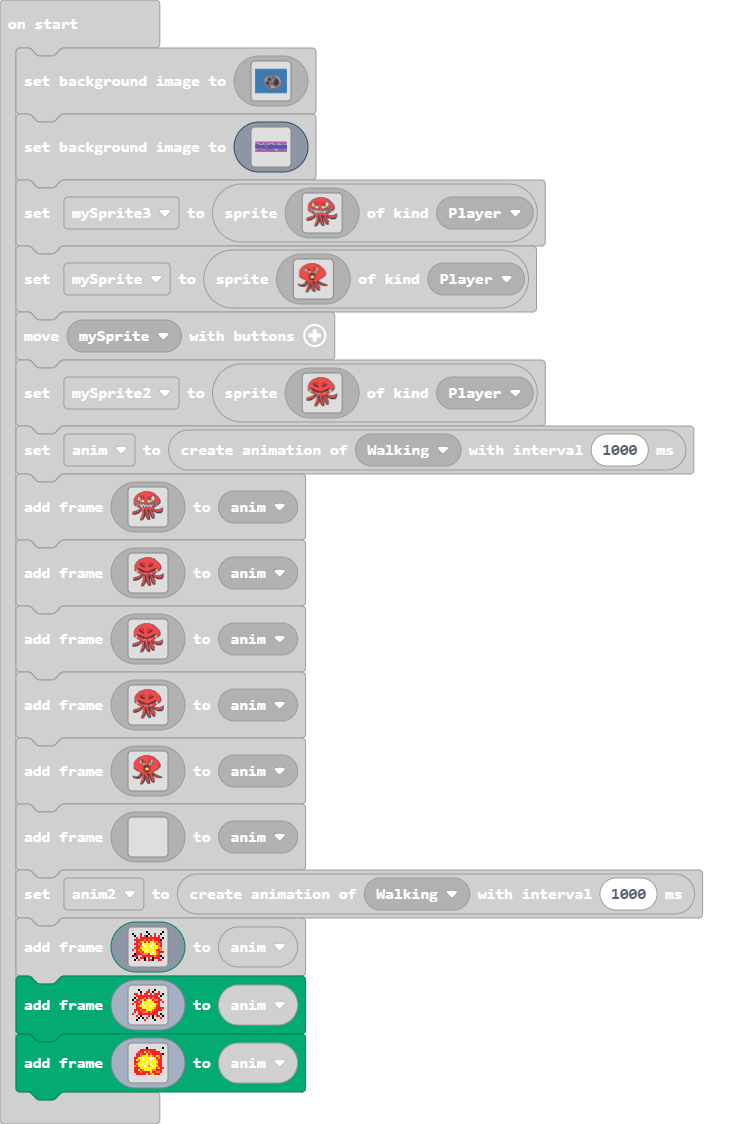
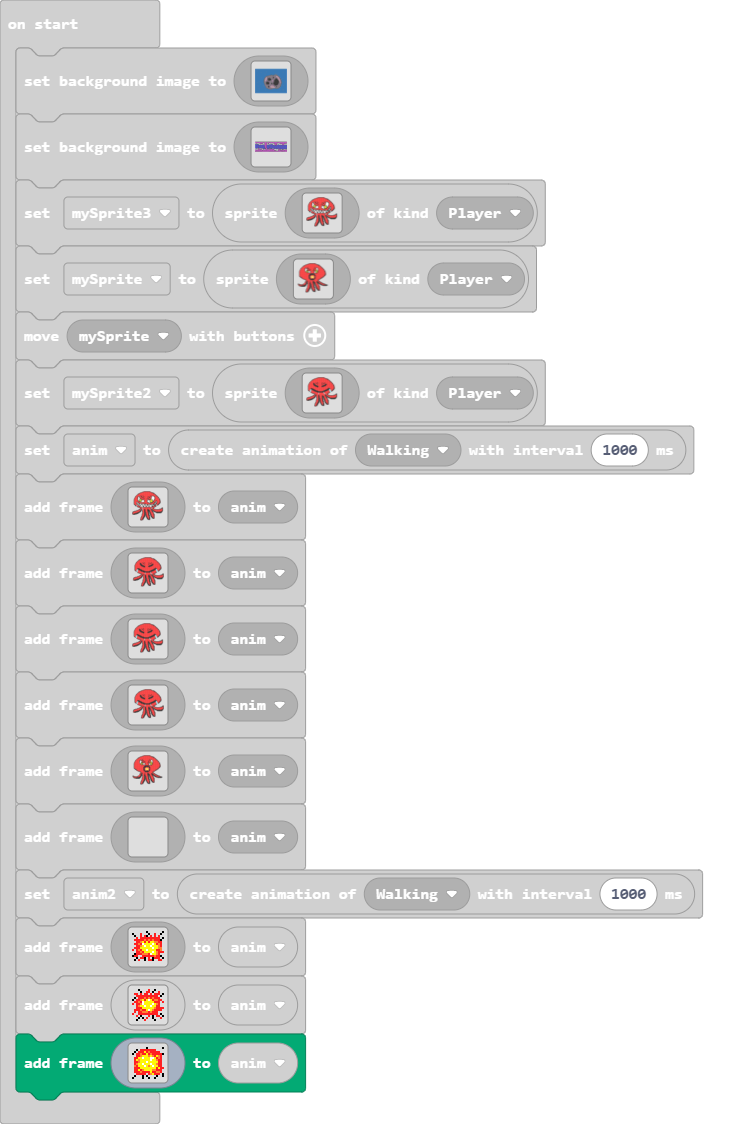
Update main.blocks, main.ts

Changed region(s): [[0.0, 0.8096, 0.4265, 0.9342], [0.3046, 0.0934, 0.4265, 0.1557]]

diff --git a/main.ts b/main.ts
@@ -803,9 +803,9 @@ anim.addAnimationFrame(img`
     `)
 anim.addAnimationFrame(img`
     . . . . . . . f . . . . . . . f 
-    . . . . 2 2 2 2 2 2 2 2 . . . . 
-    . . . 2 2 2 5 2 4 2 2 2 2 2 . . 
-    . . 2 2 4 2 2 5 2 4 2 2 2 2 2 f 
+    . . f . 2 2 2 2 2 2 2 2 . . . . 
+    . f . 2 2 2 5 2 4 2 2 2 2 2 . . 
+    f . 2 2 4 2 2 5 2 4 2 2 2 2 2 f 
     . . 2 2 4 5 5 5 4 5 4 2 5 4 2 . 
     . 2 2 5 5 1 5 5 5 1 1 5 2 4 2 . 
     . 2 5 4 5 5 5 5 5 1 5 5 4 2 2 . 
@@ -815,7 +815,7 @@ anim.addAnimationFrame(img`
     . 2 2 2 5 5 5 5 5 5 5 5 2 5 2 2 
     . 2 2 5 2 4 5 5 5 5 4 4 2 2 2 . 
     . 2 2 2 4 2 2 2 2 5 2 2 4 4 2 . 
-    . . 2 2 2 2 2 . 2 4 5 2 2 2 . . 
-    . . . . . . . . . . . . . . . . 
-    . . . . . . . . . . . . . . . . 
+    . . 2 2 2 2 2 . 2 4 5 2 2 2 . f 
+    . f . . . f . f . . . . f . . f 
+    f . . . . f . . f . . f . . . . 
     `)
